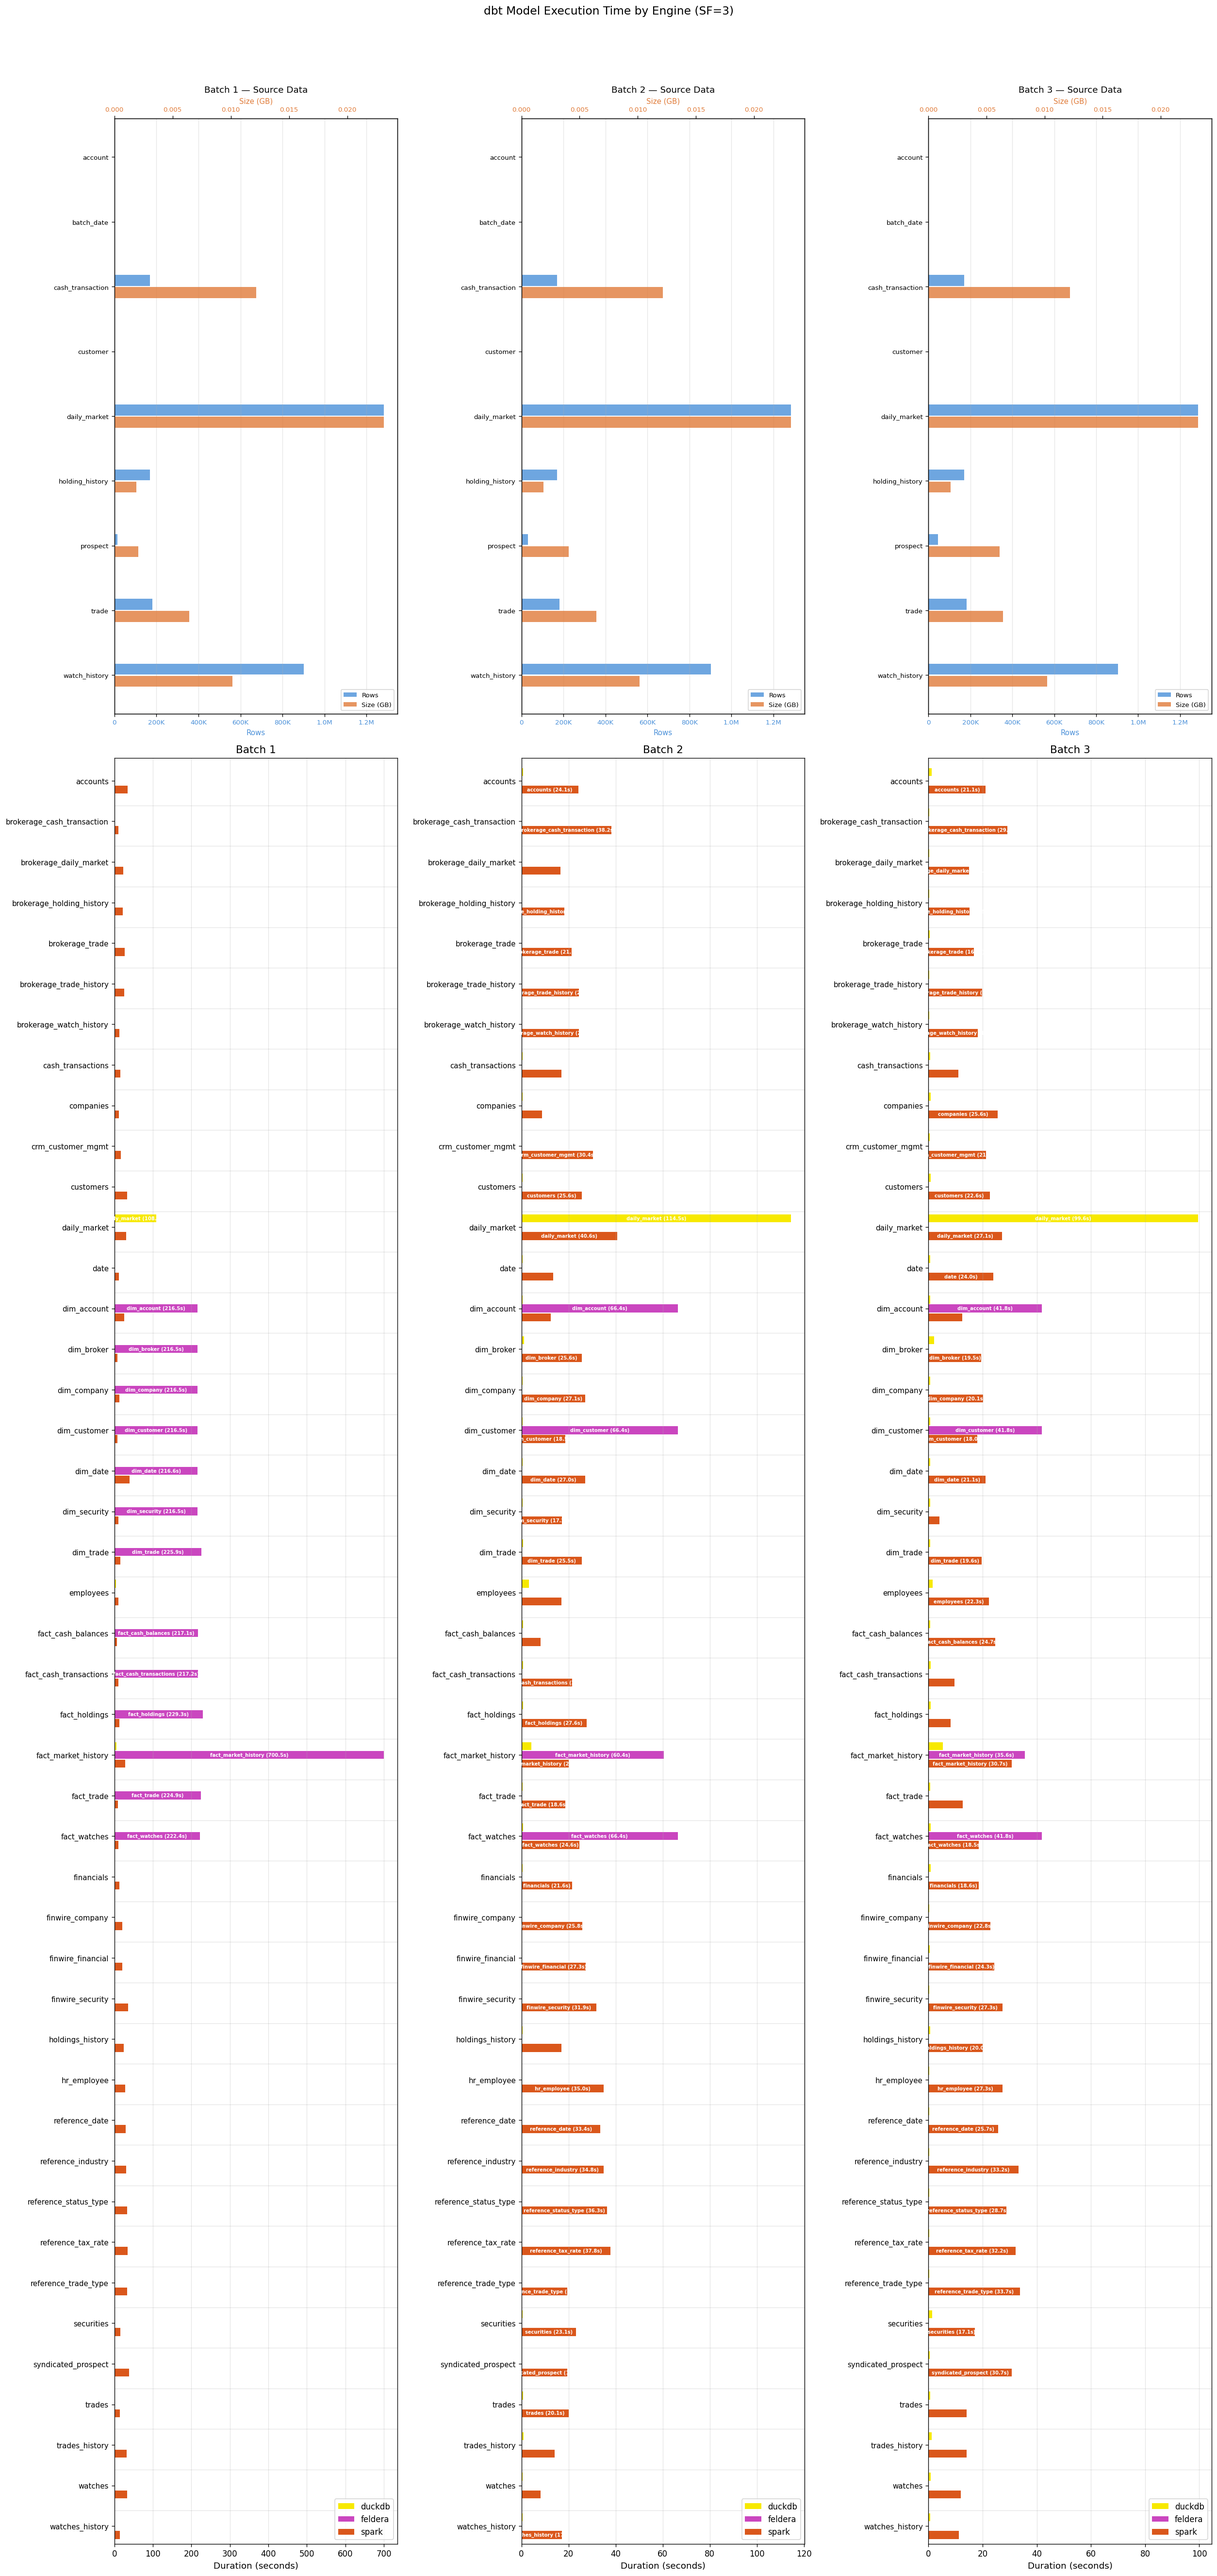
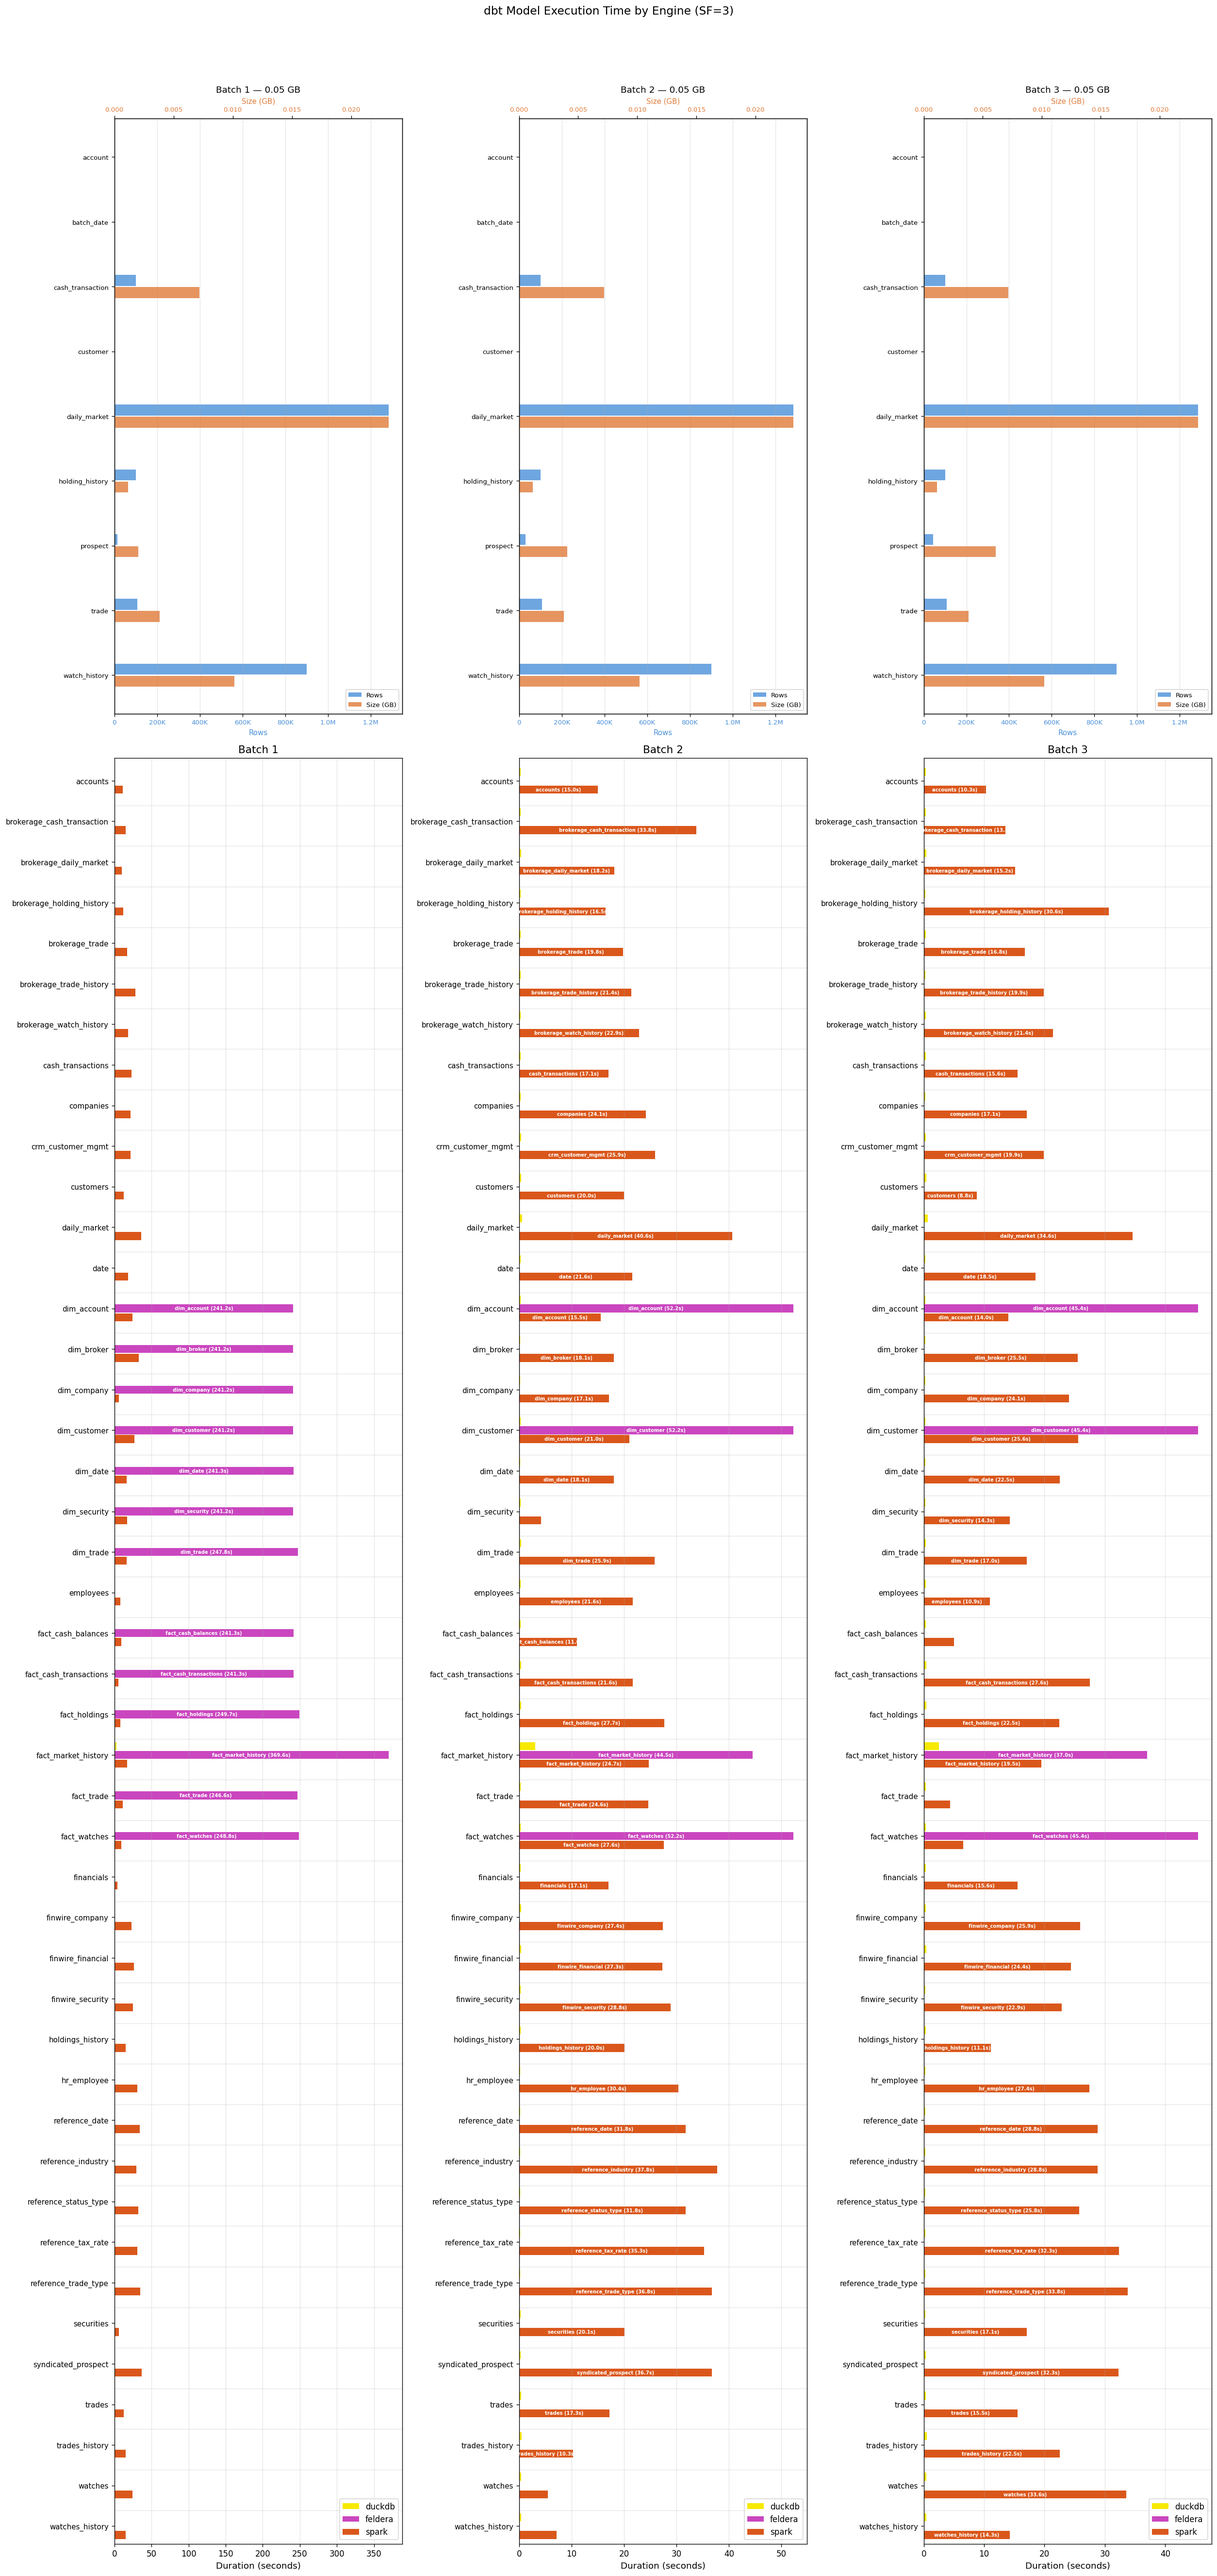
Simplify daily_market to avoid DuckDB OOM, store logs from dbt

diff --git a/src/containers/dbt-server/services/dbt_runner.py b/src/containers/dbt-server/services/dbt_runner.py
@@ -38,6 +38,9 @@ def run_dbt(run_id: str, engine: str, scale_factor: int, full_refresh: bool):
 
     init_progress(run_id)
 
+    log_path = f"/data/logs/{engine}"
+    os.makedirs(log_path, exist_ok=True)
+
     cmd = [
         "dbt", "build",
         "--profiles-dir", project_dir,
@@ -45,6 +48,7 @@ def run_dbt(run_id: str, engine: str, scale_factor: int, full_refresh: bool):
         "--target", engine,
         "--log-format", "json",
         "--log-level", "info",
+        "--log-path", log_path,
     ]
     if full_refresh:
         cmd.append("--full-refresh")

diff --git a/src/containers/dbt-server/handlers/chart.py b/src/containers/dbt-server/handlers/chart.py
@@ -147,7 +147,7 @@ def chart():
             ax.set_yticks(y_positions)
             ax.set_yticklabels(table_names, fontsize=8)
             ax.invert_yaxis()
-            ax.set_title(f"Batch {batch} — Source Data", fontsize=11)
+            ax.set_title(f"Batch {batch} — {sum(size_vals):.2f} GB", fontsize=11)
             ax.xaxis.set_major_formatter(plt.FuncFormatter(lambda v, _: f"{v/1e6:.1f}M" if v >= 1e6 else f"{v/1e3:.0f}K" if v >= 1e3 else f"{v:.0f}"))
 
             # Top x-axis: size in GB (orange bars)
